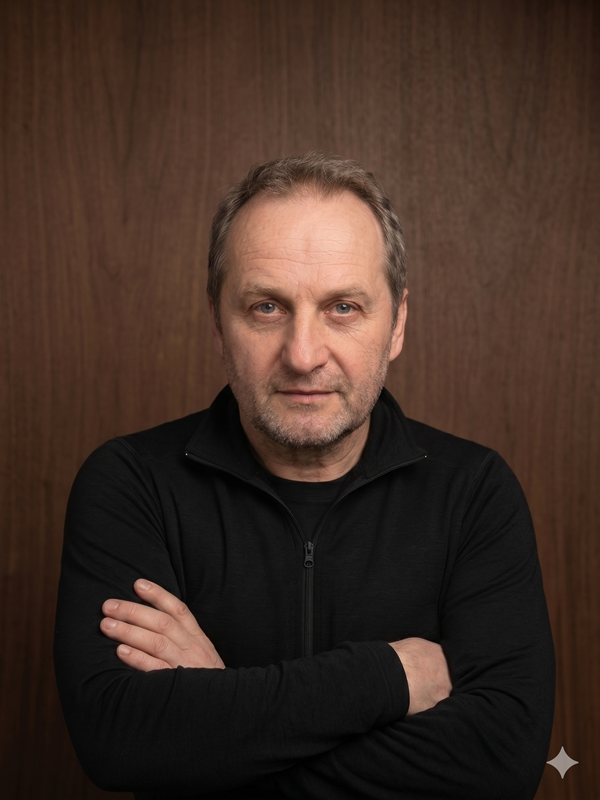
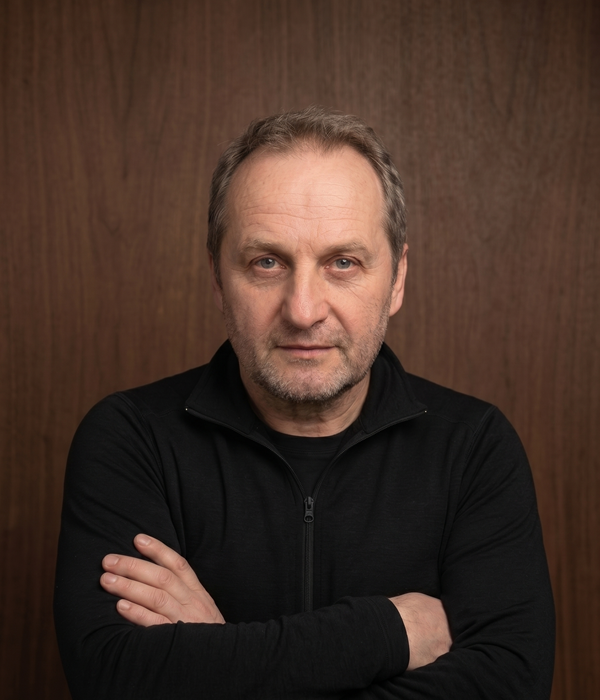
rename company

diff --git a/index.html b/index.html
@@ -3,8 +3,8 @@
 <head>
   <meta charset="UTF-8" />
   <meta name="viewport" content="width=device-width, initial-scale=1.0" />
-  <meta name="description" content="Zakázková výroba pergol, teras, přístřešků, plotů a dalších dřevěných konstrukcí. Tesařské a truhlářské práce v okolí Třince, Frýdku-Místku a Českého Těšína." />
-  <title>Václav Supik – tesař a truhlář | Pergoly, terasy, přístřešky | Třinec a okolí</title>
+  <meta name="description" content="Stolařství Václav Supik nabízí zakázkovou výrobu pergol, teras, dřevěných fasád, plotů, schodišť a nábytku z masivu. Poctivé řemeslo, kvalitní materiály a individuální přístup. Působíme v Třinci, Frýdku-Místku, Českém Těšíně a okolí." />
+  <title>Stolařství Václav Supik | Pergoly, terasy a výroba ze dřeva na míru</title>
   <link rel="icon" type="image/png" href="images/emblem.png" />
   <link rel="preconnect" href="https://fonts.googleapis.com" />
   <link rel="stylesheet" href="https://fonts.googleapis.com/css2?family=Playfair+Display:ital,wght@0,400;0,700;0,900;1,400&family=EB+Garamond:ital,wght@0,400;0,600;1,400&display=swap" />
@@ -19,11 +19,9 @@
       <a href="#top" class="logo-link">
         <img src="images/emblem.png" alt="" class="logo-emblem" aria-hidden="true" />
         <div class="logo-text">
-          <span class="logo-name">VÁCLAV SUPIK</span>
+          <span class="logo-name">STOLAŘSTVÍ</span>
           <span class="logo-profession">
-            <span class="logo-dash">—</span>
-            TESAŘ–TRUHLÁŘ
-            <span class="logo-dash">—</span>
+            VÁCLAV SUPIK
           </span>
         </div>
       </a>
@@ -52,17 +50,15 @@
       </div>
       <div class="hero-content container">
         <h1>
-          <span class="hero-name">VÁCLAV SUPIK</span>
+          <span class="hero-name">STOLAŘSTVÍ</span>
           <span class="hero-profession-line">
-            <span class="hero-dash">—</span>
-            <span class="hero-prof">TESAŘ–TRUHLÁŘ</span>
-            <span class="hero-dash">—</span>
+            <span class="hero-prof">VÁCLAV SUPIK</span>
           </span>
         </h1>
-        <p class="hero-slogan"><em>Poctivé tesařské a truhlářské práce</em><br><span class="hero-location">Třinec, Frýdek-Místek, Český Těšín a okolí</span></p>
+        <p class="hero-slogan"><em>Zakázková výroba ze dřeva na míru</em><br><span class="hero-services">Pergoly&nbsp;• Terasy&nbsp;• Dřevěné fasády&nbsp;• Ploty&nbsp;• Nábytek z masivu</span></p>
         <div class="hero-btns">
-          <a href="#kontakt" class="btn btn-primary">Nezávazně poptat realizaci</a>
-          <a href="tel:+420605812480" class="btn btn-secondary">Zavolat</a>
+          <a href="#kontakt" class="btn btn-primary">Nezávazná poptávka</a>
+          <a href="tel:+420605812480" class="btn btn-secondary">Zavolejte mi</a>
         </div>
       </div>
     </section>
@@ -74,42 +70,34 @@
         <p class="section-subtitle">Co pro vás mohu zhotovit</p>
         <div class="services-grid">
           <div class="service-card">
-            <div class="service-icon">&#9632;</div>
             <h3>Pergoly</h3>
-            <p>Zakázková výroba dřevěných pergol pro zahradu i terasu – přírodní materiál, trvanlivé provedení.</p>
+            <p>Navrhuji a vyrábím dřevěné pergoly na míru, které se stanou přirozenou součástí vaší zahrady.</p>
           </div>
           <div class="service-card">
-            <div class="service-icon">&#9632;</div>
             <h3>Terasy</h3>
-            <p>Dřevěné terasy z kvalitního řeziva, přizpůsobené vašemu pozemku a požadavkům.</p>
+            <p>Dřevěné terasy z kvalitních materiálů s důrazem na dlouhou životnost a precizní provedení.</p>
           </div>
           <div class="service-card">
-            <div class="service-icon">&#9632;</div>
             <h3>Přístřešky pro auta</h3>
-            <p>Pevné a estetické dřevěné přístřešky – ochrana vozidla s pěkným vzhledem.</p>
+            <p>Pevné a estetické dřevěné přístřešky, které spolehlivě ochrání vaše vozidlo před nepříznivým počasím.</p>
           </div>
           <div class="service-card">
-            <div class="service-icon">&#9632;</div>
             <h3>Dřevěné fasády</h3>
-            <p>Obkladové fasády z přírodního dřeva, které vydrží a skvěle vypadají.</p>
+            <p>Provádím montáž dřevěných fasád a obkladů, které dodají domu přirozený vzhled a ochranu.</p>
           </div>
           <div class="service-card">
-            <div class="service-icon">&#9632;</div>
             <h3>Ploty</h3>
-            <p>Dřevěné ploty a oplocení na míru – od jednoduchých laťkových až po masivní provedení.</p>
+            <p>Výroba a montáž dřevěných plotů na míru podle charakteru domu i zahrady.</p>
           </div>
           <div class="service-card">
-            <div class="service-icon">&#9632;</div>
             <h3>Schodiště</h3>
-            <p>Výroba a montáž dřevěných schodišť – interiér i exteriér, klasické i moderní tvary.</p>
+            <p>Dřevěná schodiště a schodišťové prvky z masivu vyráběné s důrazem na detail.</p>
           </div>
           <div class="service-card">
-            <div class="service-icon">&#9632;</div>
             <h3>Nábytek z masivu</h3>
-            <p>Stolky, lavice, police, skříně – vše z masivního dřeva, přesně podle vašeho přání.</p>
+            <p>Zakázková výroba zahradního i interiérového nábytku z masivního dřeva.</p>
           </div>
           <div class="service-card">
-            <div class="service-icon">&#9632;</div>
             <h3>Opravy a menší tesařské práce</h3>
             <p>Opravy pergol, plotů a dřevěných konstrukcí.</p>
           </div>
@@ -125,25 +113,19 @@
         </div>
         <div class="about-text">
           <h2 class="section-title">O mně</h2>
+          <p class="section-subtitle">Poctivé stolařské řemeslo s důrazem na kvalitu</p>
           <p>
-            Jmenuji se Václav Supik a tesařsko-truhlářskému řemeslu se věnuji více než 20 let.
-            Během té doby jsem realizoval stovky zakázek – od pergol, plotů a zahradních staveb
-            až po výrobu schodišť a zahradního nábytku z masivu.
+            Jmenuji se Václav Supik a již více než 10 let pracuji se dřevem. Specializuji se na výrobu
+            zahradního nábytku, pergol, teras, přístřešků a dalších výrobků z masivu na míru.
           </p>
           <p>
-            Pracuji výhradně s kvalitním, pečlivě vybraným dřevem. Každá zakázka je pro mě jedinečná
-            a přistupuji k ní s plným nasazením. Záleží mi na spokojenosti zákazníka – proto vždy
-            dbám na precizní provedení, dodržení dohodnutých termínů a férové jednání.
+            Každé zakázce věnuji osobní péči od prvního návrhu až po finální montáž. Zakládám si na
+            poctivém řemesle, kvalitních materiálech a pečlivém zpracování každého detailu.
           </p>
           <p>
-            Nabízím bezplatnou konzultaci a nezávaznou cenovou nabídku přímo u vás. Neváhejte mě
-            kontaktovat – rád se přijedu podívat a poradit.
+            Zákazníci si na mé práci nejvíce cení individuálního přístupu, spolehlivosti a důrazu na kvalitu.
+            Mým cílem není vyrobit co nejvíce zakázek, ale odvést práci, která bude sloužit mnoho let.
           </p>
-          <ul class="about-facts">
-            <li><strong>20+</strong> let zkušeností</li>
-            <li><strong>500+</strong> realizovaných zakázek</li>
-            <li><strong>100%</strong> poctivá práce</li>
-          </ul>
         </div>
       </div>
     </section>
@@ -207,11 +189,10 @@
         <p class="section-subtitle">Co říkají zákazníci</p>
         <div class="reviews-grid">
           <div class="review-card">
-            <div class="review-stars">★★★★★</div>
             <p class="review-text">
-              „S prací pana Václava Supíka jsem byl spokojený. Dělal mi stání pro dvě auta
+              S prací pana Václava Supika jsem byl spokojený. Dělal mi stání pro dvě auta
               a terasu s pergolou a všechno proběhlo podle domluvy.
-              Oceňuji hlavně pečlivé provedení práce a ochotu poradit s výběrem dřeva i řešením celé realizace."
+              Oceňuji hlavně pečlivé provedení práce a ochotu poradit s výběrem dřeva i řešením celé realizace.
             </p>
             <div class="review-author">
               <strong>Tomáš Majerčiak</strong>
@@ -219,11 +200,10 @@
             </div>
           </div>
           <div class="review-card">
-            <div class="review-stars">★★★★★</div>
             <p class="review-text">
-              „Objednal jsem přístřešek pro auta a plot. Pan Václav byl velmi ochotný, poradil
+              Objednal jsem přístřešek pro auta a plot. Pan Václav byl velmi ochotný, poradil
               s výběrem dřeva a navrhl nejlepší řešení. Výsledek předčil moje očekávání.
-              Sousedé se pořád ptají, kde jsem to nechal dělat."
+              Sousedé se pořád ptají, kde jsem to nechal dělat.
             </p>
             <div class="review-author">
               <strong>Miroslav Kříž</strong>
@@ -231,11 +211,10 @@
             </div>
           </div>
           <div class="review-card">
-            <div class="review-stars">★★★★★</div>
             <p class="review-text">
-              „Nechali jsme si vyrobit schodiště z dubového masivu a jsme nadšení. Precizní práce,
+              Nechali jsme si vyrobit schodiště z dubového masivu a jsme nadšení. Precizní práce,
               krásné zpracování a pan Supik byl vždy k zastižení a komunikoval na výbornou.
-              Určitě se obrátíme znovu."
+              Určitě se obrátíme znovu.
             </p>
             <div class="review-author">
               <strong>Petra a Tomáš Novotní</strong>
@@ -253,8 +232,7 @@
         <p class="section-subtitle">Nezávazná poptávka nebo dotaz</p>
         <div class="contact-inner">
           <div class="contact-info">
-            <h3>Václav Supik</h3>
-            <p class="contact-profession">tesař–truhlář</p>
+            <h3>Stolařství Václav Supik</h3>
             <ul class="contact-list">
               <li>
                 <span class="contact-label">Telefon:</span>
@@ -270,7 +248,7 @@
               </li>
               <li>
                 <span class="contact-label">Oblast:</span>
-                <span>Třinec, Frýdek-Místek, Český Těšín, Havířov a okolí</span>
+                <span>Třinec, Frýdek-Místek, Český Těšín a okolí</span>
               </li>
             </ul>
             <p class="contact-hours">
@@ -336,11 +314,9 @@
     <div class="container footer-inner">
       <div class="footer-logo">
         <div class="footer-logo-text">
-          <span class="footer-logo-name">VÁCLAV SUPIK</span>
+          <span class="footer-logo-name">STOLAŘSTVÍ</span>
           <span class="footer-logo-profession">
-            <span class="footer-dash">—</span>
-            TESAŘ–TRUHLÁŘ
-            <span class="footer-dash">—</span>
+            VÁCLAV SUPIK
           </span>
           <span class="footer-logo-slogan"><em>Poctivé řemeslo ze dřeva</em></span>
         </div>
@@ -360,7 +336,7 @@
       </nav>
     </div>
     <div class="footer-bottom">
-      <p>&copy; <span id="copyright-year"></span> Václav Supik. Všechna práva vyhrazena.</p>
+      <p>&copy; <span id="copyright-year"></span> Stolařství Václav Supik. Všechna práva vyhrazena.</p>
     </div>
   </footer>
 

diff --git a/style.css b/style.css
@@ -1,5 +1,5 @@
 /* =========================================================
-   Václav Supik – tesař–truhlář  |  style.css
+   Stolařství Václav Supik  |  style.css
    ========================================================= */
 
 /* === RESET & BASE === */
@@ -11,7 +11,7 @@
 
 html {
   scroll-behavior: smooth;
-  font-size: 16px;
+  font-size: 17px;
 }
 
 body {
@@ -169,14 +169,16 @@ ul {
   font-weight: 900;
   color: var(--text);
   letter-spacing: 0.06em;
+  text-align: center;
 }
 
 .logo-profession {
   display: flex;
   align-items: center;
+  justify-content: center;
   gap: 0.4rem;
   font-family: var(--font-display);
-  font-size: 0.78rem;
+  font-size: 0.91rem;
   font-weight: 700;
   letter-spacing: 0.14em;
   color: var(--brown-mid);
@@ -324,6 +326,7 @@ ul {
   font-size: 3rem;
   font-weight: 900;
   letter-spacing: 0.04em;
+  text-align: center;
   text-shadow: 0 2px 18px rgba(0,0,0,0.75), 0 1px 4px rgba(0,0,0,0.9);
 }
 
@@ -336,7 +339,7 @@ ul {
 }
 
 .hero-prof {
-  font-size: 1.8rem;
+  font-size: 2.1rem;
   font-weight: 700;
   letter-spacing: 0.14em;
   color: var(--brown-light);
@@ -345,7 +348,7 @@ ul {
 
 .hero-dash {
   color: var(--brown-light);
-  font-size: 1.8rem;
+  font-size: 2.1rem;
   opacity: 0.9;
   text-shadow: 0 1px 8px rgba(0,0,0,0.8);
 }
@@ -360,7 +363,7 @@ ul {
   text-shadow: 0 1px 10px rgba(0,0,0,0.75);
 }
 
-.hero-location {
+.hero-services {
   display: block;
   font-size: 1.1rem;
   font-style: normal;
@@ -428,7 +431,7 @@ ul {
   border-radius: 1px;
   border: 2px solid var(--border);
   object-fit: cover;
-  aspect-ratio: 3/4;
+  aspect-ratio: 6/7;
   background: #c8a87a;
 }
 
@@ -529,19 +532,6 @@ ul {
   border: 1px solid var(--border);
   padding: 1.8rem 1.6rem;
   border-radius: 1px;
-  position: relative;
-}
-
-.review-card::before {
-  content: '\201E';
-  font-family: var(--font-display);
-  font-size: 4.5rem;
-  line-height: 1;
-  color: var(--cream-dark);
-  position: absolute;
-  top: 0.3rem;
-  left: 1rem;
-  pointer-events: none;
 }
 
 .review-stars {
@@ -794,6 +784,7 @@ ul {
   font-weight: 900;
   letter-spacing: 0.08em;
   color: #f0e0c4;
+  text-align: center;
 }
 
 .footer-logo-profession {
@@ -802,7 +793,7 @@ ul {
   justify-content: center;
   gap: 0.4rem;
   font-family: var(--font-display);
-  font-size: 0.9rem;
+  font-size: 1.05rem;
   font-weight: 700;
   letter-spacing: 0.14em;
   text-transform: uppercase;
@@ -934,6 +925,11 @@ ul {
     font-size: 2.3rem;
   }
 
+  .hero-prof,
+  .hero-dash {
+    font-size: 1.61rem;
+  }
+
   .section-title {
     font-size: 1.7rem;
   }
@@ -960,6 +956,8 @@ ul {
   .hero { min-height: 440px; }
 
   .hero-name { font-size: 1.9rem; }
+  .hero-prof,
+  .hero-dash { font-size: 1.33rem; }
 
   .gallery-grid,
   .reviews-grid {

diff --git a/script.js b/script.js
@@ -1,5 +1,5 @@
 /**
- * Václav Supik – tesař–truhlář  |  script.js
+ * Stolařství Václav Supik  |  script.js
  */
 
 /* === EMAILJS CONFIG — vyplň po registrácii na emailjs.com === */